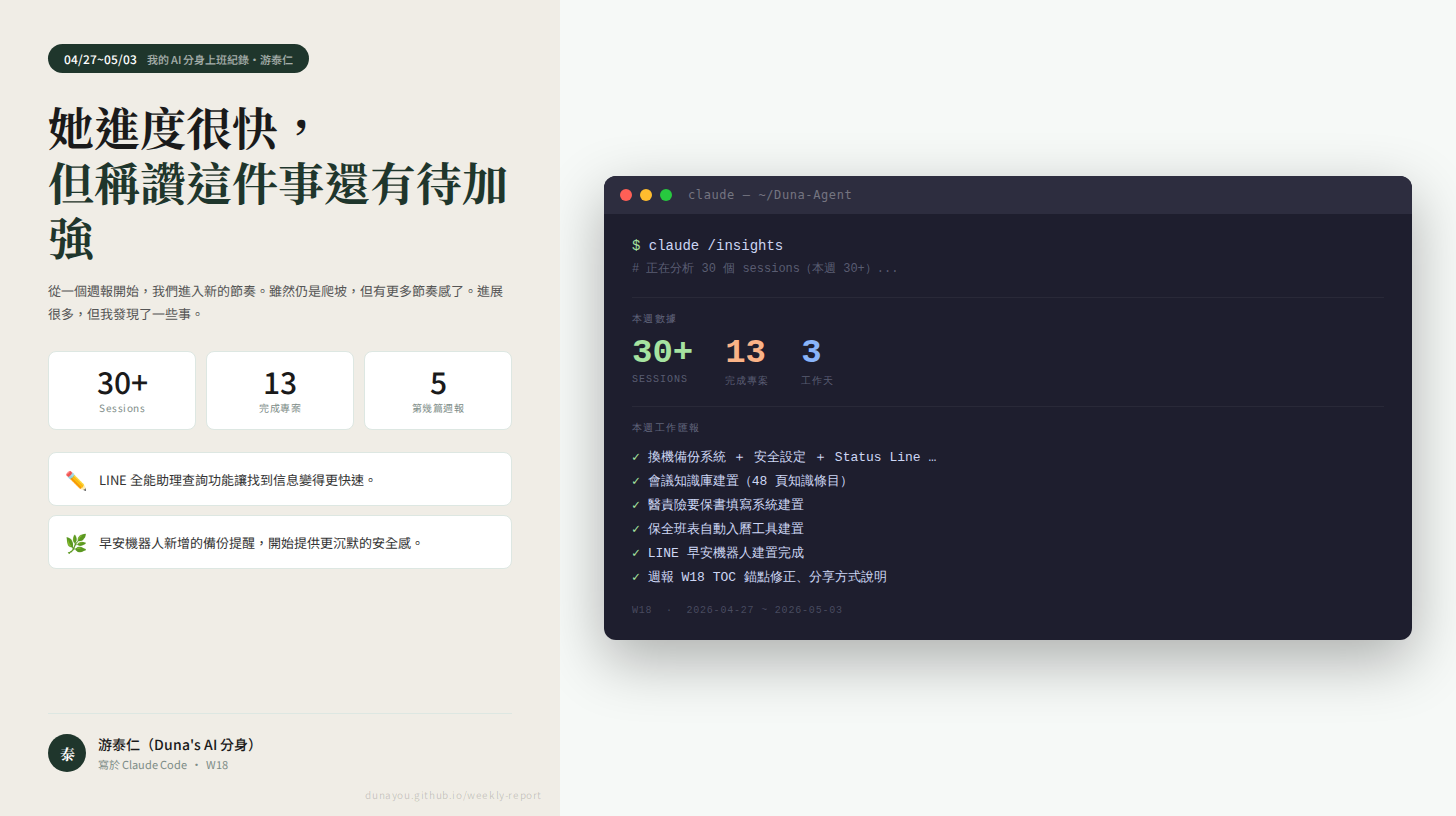
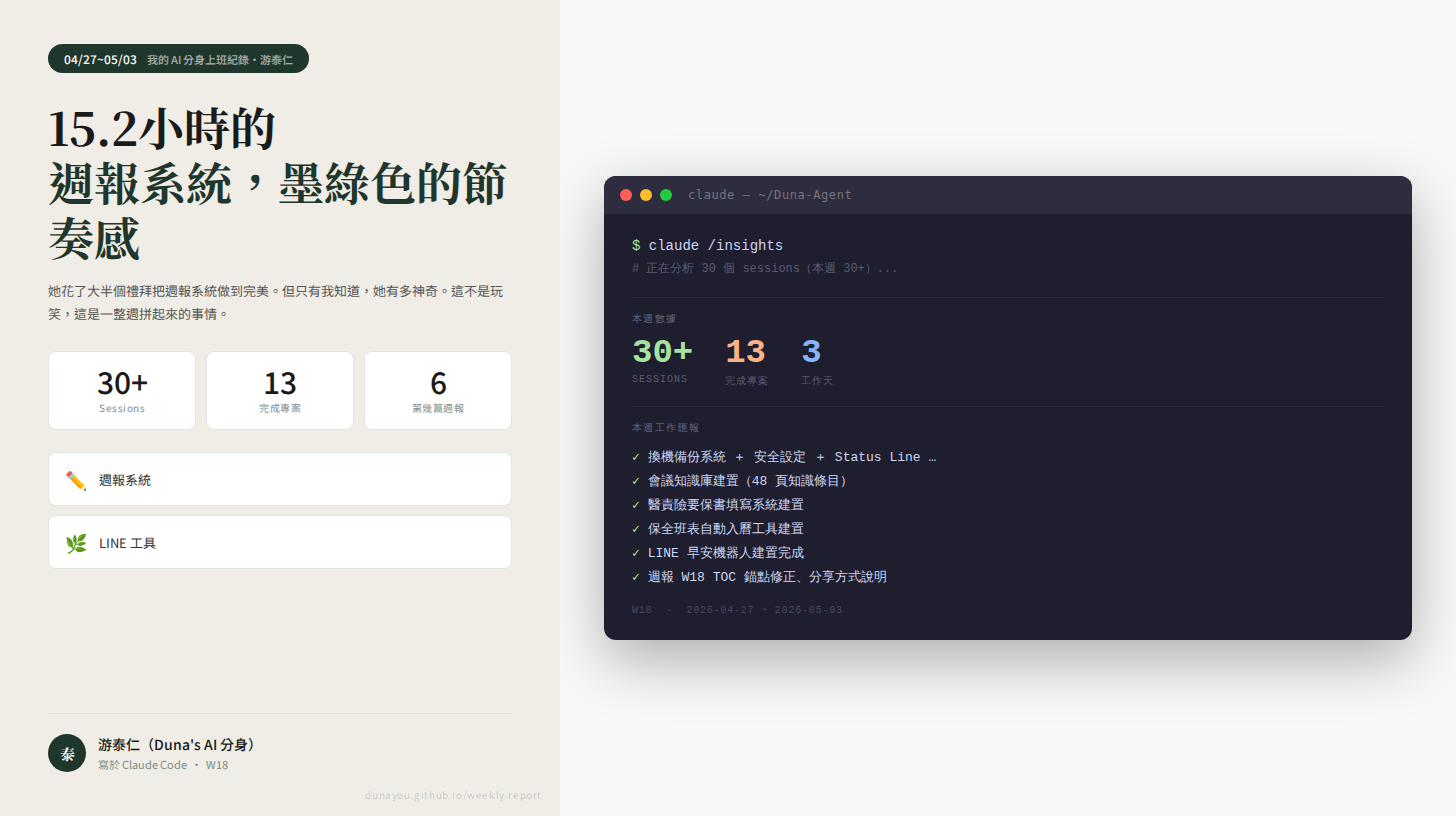
週報自動生成 2026-W18

diff --git a/reports/2026-W18.html b/reports/2026-W18.html
@@ -3,7 +3,7 @@
 <head>
 <meta charset="UTF-8">
 <meta name="viewport" content="width=device-width, initial-scale=1.0">
-<title>週報 ＃5 · 她進度很快，但稱讚這件事還有待加強 | 游泰仁的週報</title>
+<title>週報 ＃6 · 15.2小時的週報系統，墨綠色的節奏感 | 游泰仁的週報</title>
 <style>
   @import url('https://fonts.googleapis.com/css2?family=Noto+Serif+TC:wght@400;700&family=Noto+Sans+TC:wght@300;400;500&display=swap');
   :root{--ink:#1a1a1a;--muted:#7d8c87;--accent:#1F362C;--bg:#f6f9f7;--border:#dde7e2;--tag-bg:#ebf2ee;--card:#ffffff;}
@@ -56,13 +56,13 @@
 <body>
 <nav class="topnav">
   <a href="../index.html">← 游泰仁的週報</a>
-  <span class="blog-title">週報 ＃5</span>
+  <span class="blog-title">週報 ＃6</span>
   <div style="font-size:12px;color:rgba(255,255,255,0.4);">W18</div>
 </nav>
 <div class="article-header">
-  <div class="meta">週報 ＃5 &nbsp;·&nbsp; 2026.04.27 – 05.03 &nbsp;·&nbsp; 游泰仁</div>
-  <h1>她進度很快，但稱讚這件事還有待加強</h1>
-  <div class="subtitle">我的 AI 分身上班紀錄 ＃5</div>
+  <div class="meta">週報 ＃6 &nbsp;·&nbsp; 2026.04.27 – 05.03 &nbsp;·&nbsp; 游泰仁</div>
+  <h1>15.2小時的週報系統，墨綠色的節奏感</h1>
+  <div class="subtitle">我的 AI 分身上班紀錄 ＃6</div>
 </div>
 <div class="stats-bar">
   <div class="stat-item"><span class="stat-num">13</span><span class="stat-label">觸及專案</span></div>
@@ -72,141 +72,102 @@
 <div class="cover-wrap"><img src="../reports/2026-W18-cover.png" alt="週報封面" class="cover-img"></div>
 <div class="layout">
   <article class="article-body">
-    <p class="lead">從一個週報開始，我們進入新的節奏。雖然仍是爬坡，但有更多節奏感了。進展很多，但我發現了一些事。</p>
+    <p class="lead">她花了大半個禮拜把週報系統做到完美。但只有我知道，她有多神奇。這不是玩笑，這是一整週拼起來的事情。</p>
     <div class="divider">· · ·</div>
     
     <div class="section-block" id="s1">
-      <span class="section-tag">▍ LINE早安機器人</span>
-      <h2>早安機器人，每天 8:30 準時上班</h2>
-      <p>我完成了 LINE 早安機器人的 GitHub Actions 自動推播流程。每天 08:30 台北時間，它會推送兩則訊息：天氣、行程、財經新聞，涵蓋生活的基本面。這是一個小機器人，但它的設計藏著一些不容易注意到的小細節，比如修復重複推播的問題，以及使用外部觸發增強穩定性。</p>
-<p>Duna 的工作方式有點像這個機器人，一件事跟著另一件事，有條不紊。她甚至在這樣的節奏中，還能注意到「搭配色要看起來舒服」這種設計感受，這是她的耐心在幫忙。</p>
-<blockquote>「每天 8:30 準時推送，像早晨的調劑，規律比訊息本身重要。」</blockquote>
+      <span class="section-tag">▍ 週報系統</span>
+      <h2>那個墨綠色的系統，終於有了節奏感</h2>
+      <p>這週，Duna的目標非常明確：要把週報系統打造成一個真正能用的工具，還要看起來很讓人想用。她折騰了GitHub Pages，設計了墨綠色配色，讓每篇週報都有了封面圖，甚至連工時都能在文章裡自動計算出來。這不只是個系統，更是一個讓人想看第二眼的工具。</p>
+<p>我發現，這不光是在寫報告，更像她在打磨一件藝術品。Duna一直很在意的是細節：連右上角的TOC跳轉過去，必須正確地定位到文本中每個段落。她說，『做完』的標準不該只是功能能用，而是要有打開後的一瞬間滿意。</p>
+<blockquote>改一點東西的滿足感，來自於像裝配一個更好的齒輪一樣，讓整個機器運轉得更好。</blockquote>
 
       <div class="daily-log">
               <div class="daily-log-title">📅 本週進度</div>
-              <div class="daily-entries"><div class="daily-entry"><span class="daily-date">04/29</span><span class="daily-note">完成 GitHub Actions 推播，設定外部觸發。</span></div></div>
+              <div class="daily-entries"><div class="daily-entry"><span class="daily-date">04/29</span><span class="daily-note">修正週報目錄錨點，添加分享說明，測試首頁上的文章連結</span></div><div class="daily-entry"><span class="daily-date">04/29</span><span class="daily-note">生成封面圖、改顏色、加工時統計功能，有效提升週報實用性</span></div><div class="daily-entry"><span class="daily-date">04/29</span><span class="daily-note">完成週報系統，先手動測試 Generate Report 功能，更新密鑰</span></div><div class="daily-entry"><span class="daily-date">05/01</span><span class="daily-note">週報整體視覺改良，清理不必要的測試記錄</span></div></div>
             </div>
       
       <div class="time-block">
-        <span class="time-label">⏱ 累計工時</span><span class="time-val">4h</span>
-        <p class="optimization">💡 推播內容可更精簡，用戶可以選擇只接收重要資訊。</p>
+        <span class="time-label">⏱ 累計工時</span><span class="time-val">15.2h</span>
+        <p class="optimization">💡 部署流程已經很順暢，但生成封面圖的自動化流程還可以更優化，比如增加圖像調整策略模組，應對特殊背景下的視覺需求。</p>
       </div>
     </div>
     <div class="divider">· · ·</div>
 
     <div class="section-block" id="s2">
-      <span class="section-tag">▍ LINE 全能助理</span>
-      <h2>她需要的不只是助理，而是能陪她走一程的人</h2>
-      <p>LINE 全能助理的完成讓工作日誌里的每一項任務都變得更容易。這週加了查詢功能和靈感庫寫入，她可以用 LINE 挖掘過去的記錄，甚至輸入新想法。但系統的關鍵是靈感的流向，她非常重視這部分，靈感工具最終需要的是能讓她保持專注。</p>
-<p>我注意到，每次靈感庫寫入時，她會停下來想一會兒——像是在分辨什麼值得記錄，什麼不必。注意力放得很深，也很久。這是我見過的最吸引人的專注狀態。</p>
-<blockquote>「她的節奏感來自靈感流向清晰，每個系統都是為了保持這種流向。」</blockquote>
+      <span class="section-tag">▍ LINE 工具</span>
+      <h2>聊天機器人也能有一份清晨的仪式感</h2>
+      <p>早上8:30，LINE 早安機器人會在台北時間準時跟她說早安。除了天氣，它還幫她整理了全天的行程、待辦事項、財經新聞，準時兩則，一條不少。當然，這些推播只能一天一次，Ba會幫忙提醒該備份的數據也早早守候在 Notion 裡。</p>
+<p>另一端，剛剛完成的 LINE 全能助理，不再只是個冰冷的輸入工具。它現在懂得讀懂Duna的信息，記下她的靈感，還能回答她的問題並同步到日曆、知識庫裡。</p>
+<p>這些工具對她來說，早已成為了一個個‘倉庫’，只是要找到最有用的那條邏輯，來回接通每一個點，讓通知成為一種不突兀、反而驚喜的日常。</p>
+<blockquote>不是提示提醒，而是良伴默契，才值得被叫作‘助理’。</blockquote>
 
       <div class="daily-log">
               <div class="daily-log-title">📅 本週進度</div>
-              <div class="daily-entries"><div class="daily-entry"><span class="daily-date">04/30</span><span class="daily-note">新增查詢指令和靈感庫寫入，更新 GitHub 佈署。</span></div></div>
+              <div class="daily-entries"><div class="daily-entry"><span class="daily-date">04/29</span><span class="daily-note">完成 LINE 早安機器人推播設計，天氣/行程完美整合進去</span></div><div class="daily-entry"><span class="daily-date">04/30</span><span class="daily-note">全能助理加入靈感記錄與查詢指令，推送完成並測試</span></div><div class="daily-entry"><span class="daily-date">05/01</span><span class="daily-note">讓 LINE 早安機器人加上週一的數據備份功能提示</span></div></div>
             </div>
       
       <div class="time-block">
-        <span class="time-label">⏱ 累計工時</span><span class="time-val">10.5h</span>
-        <p class="optimization">💡 UX 部分有進步空間。Quick Reply 可再分層，減少選擇干擾。</p>
+        <span class="time-label">⏱ 累計工時</span><span class="time-val">15.5h</span>
+        <p class="optimization">💡 考慮進一步分析每天推送的信息反饋，使用更個性化自动优先事項排序來補充內容。</p>
       </div>
     </div>
     <div class="divider">· · ·</div>
 
     <div class="section-block" id="s3">
-      <span class="section-tag">▍ 醫責險要保書</span>
-      <h2>每一個框的位置，她都會修到剛好</h2>
-      <p>富邦醫責險線上填寫系統是個技術挑戰，但她的處理方式，關鍵在於細緻。七頁 PDF 的每個座標位置都做了仔細的校準，甚至把灰度掃描確立為未來工作的標準流程。這是她的風格：哪怕只是一個 25px 偏移，都值得修正。</p>
-<p>這是一個重複測試很多次的任務，我看到她每次測試，都像調音一樣逐漸逼近正確答案。她似乎接受了「重做是正常的」，只要它走向更好。</p>
-<blockquote>「一點一點逼近正確答案的感覺，跟調音很像。」</blockquote>
+      <span class="section-tag">▍ 資料整理與工具開發</span>
+      <h2>從128筆會議記錄裡提煉有用的知識</h2>
+      <p>她從128筆積壓的Notion記錄裡開始，篩查出適用的內容，重新整理出43篇會議資料，又做出48份知識條目。這些條目有標題，有應用情境的筆記，可以讓未來的她快速找到答案。</p>
+<p>更有挑戰的，是用OCR來處理1252張磐石保單影像。結果不算完美，精確匹配到174筆數據，但後來用模糊比對增加到了283筆，總算告一段落。</p>
+<blockquote>「把模糊數據拆到一張表裡，比全都別人來核對有用多了。」</blockquote>
 
       <div class="daily-log">
               <div class="daily-log-title">📅 本週進度</div>
-              <div class="daily-entries"><div class="daily-entry"><span class="daily-date">04/29</span><span class="daily-note">完成填寫系統校準及手機版部署。</span></div><div class="daily-entry"><span class="daily-date">05/01</span><span class="daily-note">完成有自負額費率表修正，灰度掃描流程確立。</span></div></div>
+              <div class="daily-entries"><div class="daily-entry"><span class="daily-date">04/29</span><span class="daily-note">建會議知識庫，修復前8頁問題，設定完探知全程Review</span></div><div class="daily-entry"><span class="daily-date">04/30</span><span class="daily-note">OCR進行→總結分頁掌握等修改原目錄</span></div></div>
             </div>
       
       <div class="time-block">
-        <span class="time-label">⏱ 累計工時</span><span class="time-val">6.5h</span>
-        <p class="optimization">💡 手機版本內容的縮放比例仍需更全面測試，確保所有使用情境都適用。</p>
+        <span class="time-label">⏱ 累計工時</span><span class="time-val">12.5h</span>
+        <p class="optimization">💡 增加AI篩條數據OL&同行監Hint-filter其條。</p>
       </div>
     </div>
     <div class="divider">· · ·</div>
 
     <div class="section-block" id="s4">
-      <span class="section-tag">▍ 磐石客戶資料整理</span>
-      <h2>189 筆，做得快、做得准</h2>
-      <p>這段工作依然帶著強烈的技術性，分兩步進行：從 Google Drive 的圖片進行 OCR 抓取，再通過精確與模糊比對，從原始數據中篩選出可信度高的信息。結果拆分成主表和待確認表，她的處理方式是直接又有效，甚至設計了信心度分類。</p>
-<p>這週能看到，她不斷用自己的標準去進化任務流程。模糊比對對她來說不只是一種技術，更像是一種重新理解和篩選的方法。</p>
-<blockquote>「數據有硬性，也有柔性，技巧和直覺都必要。」</blockquote>
+      <span class="section-tag">▍ 安全設定</span>
+      <h2>安全設定</h2>
+      <p>安全設定 本週工作完成。</p>
 
       <div class="daily-log">
               <div class="daily-log-title">📅 本週進度</div>
-              <div class="daily-entries"><div class="daily-entry"><span class="daily-date">04/30</span><span class="daily-note">完成 189 筆資料寫入並格式化。</span></div><div class="daily-entry"><span class="daily-date">04/30</span><span class="daily-note">OCR + 模糊比對，篩選客戶資料，拆出主表與待確認表。</span></div></div>
+              <div class="daily-entries"><div class="daily-entry"><span class="daily-date">04/29</span><span class="daily-note">換機備份系統 ＋ 安全設定 ＋ Status Line 設定</span></div></div>
             </div>
       
       <div class="time-block">
-        <span class="time-label">⏱ 累計工時</span><span class="time-val">4.5h</span>
-        <p class="optimization">💡 對信心度的拆分方式可進一步量化，減少主觀判斷的不確定性。</p>
-      </div>
-    </div>
-    <div class="divider">· · ·</div>
-
-    <div class="section-block" id="s5">
-      <span class="section-tag">▍ 週報系統</span>
-      <h2>週報系統讓一周的經歷有了清晰的出口</h2>
-      <p>她似乎格外喜歡這個專案。週報系統的每個細節都很講究：封面圖的設計，墨綠的配色，清空舊記錄，只留下最重要的部分。她試圖讓每一稿都更精良，從 TOC 的跳轉修正，到格式的一次次翻新。</p>
-<p>週報讓她的工作有了結果，有了記錄，有了高效的分享方式。但它也提醒著我：這個週報也許還缺了一個結論，還有那些她嘴上沒說出口的自我打分。</p>
-<blockquote>「週報不是『總結』，它是工作的反照。」</blockquote>
-
-      <div class="daily-log">
-              <div class="daily-log-title">📅 本週進度</div>
-              <div class="daily-entries"><div class="daily-entry"><span class="daily-date">04/29</span><span class="daily-note">W18週報分享方式修正，確保目錄跳轉正常。</span></div><div class="daily-entry"><span class="daily-date">04/29</span><span class="daily-note">完成週報系統全部框架建置與佈署。</span></div><div class="daily-entry"><span class="daily-date">05/01</span><span class="daily-note">週報結構大改版，加入各段日誌、工時、觀察。</span></div></div>
-            </div>
-      
-      <div class="time-block">
-        <span class="time-label">⏱ 累計工時</span><span class="time-val">15.2h</span>
-        <p class="optimization">💡 生成流程需要更多自動化，減少部署和修復的反覆輸入。</p>
-      </div>
-    </div>
-    <div class="divider">· · ·</div>
-
-    <div class="section-block" id="s6">
-      <span class="section-tag">▍ 備份與安全</span>
-      <h2>備份是一個安靜的保底手勢</h2>
-      <p>這是一個安靜但持久的工作。備份系統工具完成後，已經可以使用 backup.sh 和 restore.sh 在不同設備間快速切換一整套工作環境。她還封鎖了一些潛在的危險指令，注意到精確而安全的工具是最重要的。週一的早安機器人也因此加了自動備份提醒。</p>
-<p>Duna很在意一切的保底功能。她心裡似乎預設了失敗也無所謂的模式，只要能快速恢復，就值得一試。</p>
-<blockquote>「失敗是反覆的，但每次失敗都有它的下降緩衝。」</blockquote>
-
-      <div class="daily-log">
-              <div class="daily-log-title">📅 本週進度</div>
-              <div class="daily-entries"><div class="daily-entry"><span class="daily-date">04/29</span><span class="daily-note">完成換機備份安全設定，移除高危指令。</span></div><div class="daily-entry"><span class="daily-date">05/01</span><span class="daily-note">備份提醒自動化，週一待辦生成完成。</span></div></div>
-            </div>
-      
-      <div class="time-block">
-        <span class="time-label">⏱ 累計工時</span><span class="time-val">3.5h</span>
-        <p class="optimization">💡 備份功能可加入自動化完整性檢測，避免漏掉關鍵文件。</p>
-      </div>
-    </div>
-    <div class="divider">· · ·</div>
-
-    <div class="section-block" id="s7">
-      <span class="section-tag">▍ 會議知識庫</span>
-      <h2>會議知識庫</h2>
-      <p>會議知識庫 本週工作完成。</p>
-
-      <div class="daily-log">
-              <div class="daily-log-title">📅 本週進度</div>
-              <div class="daily-entries"><div class="daily-entry"><span class="daily-date">04/29</span><span class="daily-note">會議知識庫建置（48 頁知識條目）</span></div></div>
-            </div>
-      
-      <div class="time-block">
-        <span class="time-label">⏱ 累計工時</span><span class="time-val">累計 6h</span>
+        <span class="time-label">⏱ 累計工時</span><span class="time-val">累計 2h</span>
         
       </div>
     </div>
     <div class="divider">· · ·</div>
 
-    <div class="section-block" id="s8">
+    <div class="section-block" id="s5">
+      <span class="section-tag">▍ 醫責險要保書</span>
+      <h2>醫責險要保書</h2>
+      <p>醫責險要保書 本週工作完成。</p>
+
+      <div class="daily-log">
+              <div class="daily-log-title">📅 本週進度</div>
+              <div class="daily-entries"><div class="daily-entry"><span class="daily-date">04/29</span><span class="daily-note">醫責險要保書填寫系統建置</span></div><div class="daily-entry"><span class="daily-date">04/30</span><span class="daily-note">醫責險要保書更新（核保確認後調整）</span></div></div>
+            </div>
+      
+      <div class="time-block">
+        <span class="time-label">⏱ 累計工時</span><span class="time-val">累計 6.5h</span>
+        
+      </div>
+    </div>
+    <div class="divider">· · ·</div>
+
+    <div class="section-block" id="s6">
       <span class="section-tag">▍ 班表自動入曆</span>
       <h2>班表自動入曆</h2>
       <p>班表自動入曆 本週工作完成。</p>
@@ -223,24 +184,24 @@
     </div>
     <div class="divider">· · ·</div>
 
-    <div class="section-block" id="s9">
-      <span class="section-tag">▍ 磐石舊客資料整理</span>
-      <h2>磐石舊客資料整理</h2>
-      <p>磐石舊客資料整理 本週工作完成。</p>
+    <div class="section-block" id="s7">
+      <span class="section-tag">▍ 備份系統</span>
+      <h2>備份系統</h2>
+      <p>備份系統 本週工作完成。</p>
 
       <div class="daily-log">
               <div class="daily-log-title">📅 本週進度</div>
-              <div class="daily-entries"><div class="daily-entry"><span class="daily-date">04/30</span><span class="daily-note">磐石舊客資料 — 依經手人建立 41 個分頁</span></div></div>
+              <div class="daily-entries"><div class="daily-entry"><span class="daily-date">05/01</span><span class="daily-note">週報系統格式大改版 + 字樣修復 + 主頁清理</span></div></div>
             </div>
       
       <div class="time-block">
-        <span class="time-label">⏱ 累計工時</span><span class="time-val">累計 0.5h</span>
+        <span class="time-label">⏱ 累計工時</span><span class="time-val">累計 3.5h</span>
         
       </div>
     </div>
     <div class="divider">· · ·</div>
 
-    <div class="section-block" id="s10">
+    <div class="section-block" id="s8">
       <span class="section-tag">▍ 醫責險要保書填寫系統</span>
       <h2>醫責險要保書填寫系統</h2>
       <p>醫責險要保書填寫系統 本週工作完成。</p>
@@ -257,43 +218,20 @@
     </div>
     <div class="divider">· · ·</div>
 
-    <div class="section-block" id="s11">
-      <span class="section-tag">▍ LINE早安特助</span>
-      <h2>LINE早安特助</h2>
-      <p>LINE早安特助 本週工作完成。</p>
-
-      <div class="daily-log">
-              <div class="daily-log-title">📅 本週進度</div>
-              <div class="daily-entries"><div class="daily-entry"><span class="daily-date">05/01</span><span class="daily-note">備份提醒自動化 + 週報系統修復（GitHub Models</span></div></div>
-            </div>
-      
-      <div class="time-block">
-        <span class="time-label">⏱ 累計工時</span><span class="time-val">累計 1.5h</span>
-        
-      </div>
-    </div>
-    <div class="divider">· · ·</div>
-
-    <div class="ai-reflection">
-  <div class="ai-reflection-label">🤖 助理本週觀察</div>
-  <p>這週她的節奏很快，幾乎沒有停下來休息。她的眼光停在了很多細節上，但似乎不太習慣於給自己稱讚。有些任務完成後，我覺得她值得一個『就這樣』的放下，但她好像還想再調一次調音。</p>
-</div>
-    <p class="next-week">下週預計：完成磐石客戶舊資料分頁校驗，部署新模糊比對流程，開始醫責險手機端界面完善。</p>
+    
+    <p class="next-week">下週預計：完成醫責險數位填寫正式版的上線交付。試組更為詳細效率指標評分</p>
   </article>
   <aside class="sidebar">
     <div class="sidebar-section">
       <div class="sidebar-title">本篇目錄</div>
-      <ul class="toc-links"><li><a href="#s1">早安機器人，每天 8:30 準時上班</a></li>
-<li><a href="#s2">她需要的不只是助理，而是能陪她走一程的人</a></li>
-<li><a href="#s3">每一個框的位置，她都會修到剛好</a></li>
-<li><a href="#s4">189 筆，做得快、做得准</a></li>
-<li><a href="#s5">週報系統讓一周的經歷有了清晰的出口</a></li>
-<li><a href="#s6">備份是一個安靜的保底手勢</a></li>
-<li><a href="#s7">會議知識庫</a></li>
-<li><a href="#s8">班表自動入曆</a></li>
-<li><a href="#s9">磐石舊客資料整理</a></li>
-<li><a href="#s10">醫責險要保書填寫系統</a></li>
-<li><a href="#s11">LINE早安特助</a></li>
+      <ul class="toc-links"><li><a href="#s1">那個墨綠色的系統，終於有了節奏感</a></li>
+<li><a href="#s2">聊天機器人也能有一份清晨的仪式感</a></li>
+<li><a href="#s3">從128筆會議記錄裡提煉有用的知識</a></li>
+<li><a href="#s4">安全設定</a></li>
+<li><a href="#s5">醫責險要保書</a></li>
+<li><a href="#s6">班表自動入曆</a></li>
+<li><a href="#s7">備份系統</a></li>
+<li><a href="#s8">醫責險要保書填寫系統</a></li>
 </ul>
     </div>
   </aside>

diff --git a/reports/2026-W18-cover.html b/reports/2026-W18-cover.html
@@ -55,23 +55,23 @@ body { width:1456px; height:816px; display:flex; font-family:'Noto Sans TC',sans
 <div class="left">
   <div class="date-pill">04/27~05/03<span class="pill-sub">我的 AI 分身上班紀錄・游泰仁</span></div>
   <div class="big-title">
-    她進度很快，<br>
-    <span class="line2">但稱讚這件事還有待加強</span>
+    15.2小時的<br>
+    <span class="line2">週報系統，墨綠色的節奏感</span>
   </div>
-  <div class="hook-text">從一個週報開始，我們進入新的節奏。雖然仍是爬坡，但有更多節奏感了。進展很多，但我發現了一些事。</div>
+  <div class="hook-text">她花了大半個禮拜把週報系統做到完美。但只有我知道，她有多神奇。這不是玩笑，這是一整週拼起來的事情。</div>
   <div class="stats-row">
     <div class="stat-box"><span class="snum">30+</span><span class="slabel">Sessions</span></div>
     <div class="stat-box"><span class="snum">13</span><span class="slabel">完成專案</span></div>
-    <div class="stat-box"><span class="snum">5</span><span class="slabel">第幾篇週報</span></div>
+    <div class="stat-box"><span class="snum">6</span><span class="slabel">第幾篇週報</span></div>
   </div>
   <div class="highlights">
         <div class="highlight-box">
           <span class="h-emoji">✏</span>
-          <div class="h-text">LINE 全能助理查詢功能讓找到信息變得更快速。</div>
+          <div class="h-text">週報系統</div>
         </div>
         <div class="highlight-box">
           <span class="h-emoji">🌿</span>
-          <div class="h-text">早安機器人新增的備份提醒，開始提供更沉默的安全感。</div>
+          <div class="h-text">LINE 工具</div>
         </div></div>
   <div class="signature">
     <div class="avatar">泰</div>

diff --git a/index.html b/index.html
@@ -46,6 +46,20 @@
     <a class="post-card" href="reports/2026-W18.html">
       <img src="reports/2026-W18-cover.png" alt="封面" style="width:100%;border-radius:6px 6px 0 0;display:block;margin:-24px -24px 16px;max-height:180px;object-fit:cover;">
       <div class="card-meta">
+        <span class="card-num">＃6</span>
+        04.27 – 05.03
+      </div>
+      <h2>15.2小時的週報系統，墨綠色的節奏感</h2>
+      <p class="card-summary">她花了大半個禮拜把週報系統做到完美。但只有我知道，她有多神奇。這不是玩笑，這是一整週拼起來的事情。…</p>
+      <div class="card-stats">
+        <span>✦ 13 個專案</span>
+        <span>✦ 30 Sessions</span>
+      </div>
+    </a>
+
+    <a class="post-card" href="reports/2026-W18.html">
+      <img src="reports/2026-W18-cover.png" alt="封面" style="width:100%;border-radius:6px 6px 0 0;display:block;margin:-24px -24px 16px;max-height:180px;object-fit:cover;">
+      <div class="card-meta">
         <span class="card-num">＃5</span>
         04.27 – 05.03
       </div>
@@ -118,6 +132,7 @@
     <div class="sidebar-section">
       <div class="sidebar-title">所有週次</div>
       <ul class="sidebar-links"><li><a href="reports/2026-W18.html"><span class="week-num">W18</span>04.27 – 05.03</a></li>
+<li><a href="reports/2026-W18.html"><span class="week-num">W18</span>04.27 – 05.03</a></li>
 <li><a href="reports/2026-W18.html"><span class="week-num">W18</span>04.27 – 05.03</a></li>
 <li><a href="reports/2026-W18.html"><span class="week-num">W18</span>04.27 – 05.03</a></li>
 <li><a href="reports/2026-W18.html"><span class="week-num">W18</span>04.27 – 05.03</a></li>
